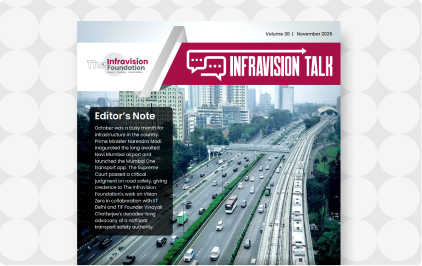
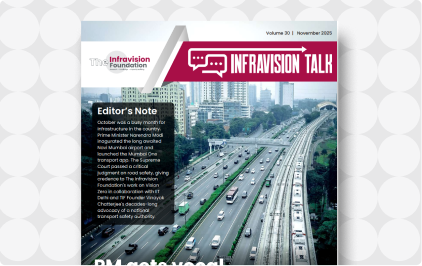
updates

diff --git a/src/app/_home/updates.tsx b/src/app/_home/updates.tsx
@@ -9,11 +9,11 @@ import { GoArrowLeft, GoArrowRight } from "react-icons/go";
 import { Navigation, Autoplay, Pagination } from "swiper/modules";
 import Link from "next/link";
 import img_15 from "@/../public/assets/knowledeg/blogs/01.jpg";
-import niti from "@/../public/assets/archive/newsletter/niti.png";
-import piyush from "@/../public/assets/knowledeg/conversations/piyush.png";
-import kalpana from "@/../public/assets/knowledeg/conversations/kalpana.png";
+import awards from "@/../public/assets/archive/newsletter/infraPanditAward.png";
+import abha from "@/../public/assets/knowledeg/conversations/abha.png";
+import lokanath from "@/../public/assets/knowledeg/conversations/lokanath.png";
 import montek from "@/../public/assets/globals/infrapanditAward.jpg";
-import vandey from "@/../public/assets/archive/newsAndMedia/vande-bharat.jpg";
+import budget from "@/../public/assets/archive/newsAndMedia/budget.png";
 export default function Updates() {
   const [isFirstSlide, setIsFirstSlide] = useState(true);
   const [isLastSlide, setIsLastSlide] = useState(false);
@@ -154,11 +154,11 @@ export default function Updates() {
 const EventsDetails = [
   {
     
-    image: vandey,
+    image: budget,
     category: "News",
-    title: "Fast Forwarding Bharat: The Next Leap",
+    title: "Budget should reemphasise infrastructure",
      btnTitle: "See details",
-    link: "/assets/pdf/infrastructure.pdf",
+    link: "/assets/pdf/budget.jpg",
   },
   {
     image: montek,
@@ -168,11 +168,11 @@ const EventsDetails = [
     link: "/infrapandit-awards",
   },
   {
-    image: niti,
-    category: "Calender",
-    title: "NITI Aayog and The Infravision Foundation",
+    image: awards,
+    category: "Newsletter",
+    title: "Infra pandit award 2025",
     btnTitle: "Read more",
-    link: "/outreach-and-engagements",
+    link: "/assets/pdf/decmber.pdf",
   },
 
   {
@@ -184,18 +184,18 @@ const EventsDetails = [
   },
 
   {
-    image: kalpana,
+    image: lokanath,
     category: "Video",
-    title: "Does free public transport for women improve safety?",
+    title: "Mr. Loknath Behera",
     btnTitle: "Watch video",
-    link: "https://www.youtube.com/embed/gg9NtuYLiZA?si=3IY8UMlwZb7r_LzP",
+    link: "https://www.youtube.com/embed/7oiHaLYOpfM?si=TqLV-npHvLJFPdUJ",
   },
 
   {
-    image: piyush,
+    image: abha,
     category: "Video",
-    title: "FSI Deregulation in Hyderabad: A Missed Opportunity",
+    title: "Abha Narain Lambah",
     btnTitle: "Watch video",
-    link: "https://www.youtube.com/embed/dOvYS3ulWmY?si=x8H4VNIkkmE2WP-q",
+    link: "https://www.youtube.com/embed/3y7U8G23O9M?si=X_3YXXx__Wd7pdKu",
   },
 ];

diff --git a/src/app/_home/05_highlights.tsx b/src/app/_home/05_highlights.tsx
@@ -8,6 +8,24 @@ import { useHeader } from "@/context/useHeader";
 import Link from "next/link";
 
 const newsletters = [
+    {
+    id: 29,
+    img: "/assets/archive/newsletter/infraPanditAward.png",
+    category: "Volume 31",
+    title: "Infra pandit award 2025",
+    sectors: "",
+    date: "December 2025",
+    link: "/assets/pdf/decmber.pdf",
+  },
+    {
+    id: 28,
+    img: "/assets/archive/newsletter/noveberNewsletter.png",
+    category: "Volume 30",
+    title: "PM gets vocal on unified transport authority",
+    sectors: "",
+    date: "November 2025",
+    link: "/assets/pdf/novemberNewsletter.pdf",
+  },
   {
     id: 29,
     img: "/assets/archive/newsletter/niti.png",
@@ -17,27 +35,29 @@ const newsletters = [
     date: "October 2025",
     link: "/assets/pdf/niti.pdf",
   },
-  {
-    id: 28,
-    img: "/assets/archive/newsletter/crunching.png",
-    category: "Volume 28",
-    title: "Crunching Data,Analysing Information",
-    sectors: "",
-    date: "September 2025",
-    link: "/assets/pdf/crunchingData.pdf",
-  },
-  {
-    id: 27,
-    img: "/assets/archive/newsletter/agustNewsletter.png",
-    category: "Volume 27",
-    title: "TIF reaches out to stakeholders",
-    sectors: "",
-    date: "August 2025",
-    link: "/assets/pdf/augustNewsletter.pdf",
-  },
+
+  
 ];
 
 const news = [
+     {
+    id:59,
+    img: "/assets/archive/newsAndMedia/budget.png",
+    category: "News",
+    title: "Budget should reemphasise infrastructure",
+    date: "December 2025",
+     subtitle: "Vinayak Chatterjee",
+    link: "/assets/pdf/budget.jpg",
+  },
+     {
+    id:59,
+    img: "/assets/archive/newsAndMedia/confidence.png",
+    category: "News",
+    title: "Confidence in India's logistics cost",
+    date: "November 2025",
+     subtitle: "Vinayak Chatterjee",
+    link: "/assets/pdf/confidence.pdf",
+  },
    {
     id:59,
     img: "/assets/archive/newsAndMedia/vande-bharat.jpg",
@@ -47,25 +67,8 @@ const news = [
      subtitle: "Vinayak Chatterjee",
     link: "/assets/pdf/infrastructure.pdf",
   },
-  {
-    id: 55,
-    img: "/assets/knowledeg/researchPapers/02.jpg",
-    category: "News",
-    title: "Next game changer: High-speed rail",
-    date: "Sepetember 19, 2025",
-    subtitle: "Vinayak Chatterjee",
-    link: "/assets/pdf/speedRail.jpg",
-  },
-  {
-    id: 54,
-    img: "/assets/archive/newsAndMedia/vrinda.png",
-    category: "News",
-    title:
-      "Cold Rooms in Local Markets: Securing Farmers, Delivering Nutrition",
-    date: "August 9, 2025",
-    subtitle: "Vrinda Singh and Priyanka Bains",
-    link: "/assets/pdf/vrinda-singh-priyanka-bains.pdf",
-  },
+
+ 
   
 ];
 

diff --git a/src/app/archive/02_newsletter.tsx b/src/app/archive/02_newsletter.tsx
@@ -44,16 +44,16 @@ const INITIAL_VISIBLE_COUNT = 3;
 
 
 const allcards = [
-  //  {
-  //   id: 31,
-  //   img: "/assets/archive/newsletter/noveberNewsletter.png",
-  //   category: "Volume 31",
-  //   title: "",
-  //   sectors: "",
-  //   date: "December 2025",
-  //   description: "PM gets vocal on unified transport authority",
-  //   link: "/assets/pdf/decmber.pdf",
-  // },
+   {
+    id: 31,
+    img: "/assets/archive/newsletter/infraPanditAward.png",
+    category: "Volume 31",
+    title: "",
+    sectors: "",
+    date: "December 2025",
+    description: "Infra pandit award 2025",
+    link: "/assets/pdf/decmber.pdf",
+  },
      {
     id: 30,
     img: "/assets/archive/newsletter/noveberNewsletter.png",

diff --git a/src/app/archive/03_newsAndMedia.tsx b/src/app/archive/03_newsAndMedia.tsx
@@ -43,6 +43,17 @@ const SECTORS: SectorType[] = [
 const INITIAL_VISIBLE_COUNT = 3;
 
 const allcards = [
+    {
+    id:62,
+    img: "/assets/archive/newsAndMedia/budget.png",
+    category: "News",
+    title: "Vinayak Chatterjee",
+    sectors: "",
+    date: "December 2025",
+    description: "Budget should reemphasise infrastructure",
+    link: "/assets/pdf/budget.jpg",
+  },
+
 
    {
     id:61,
